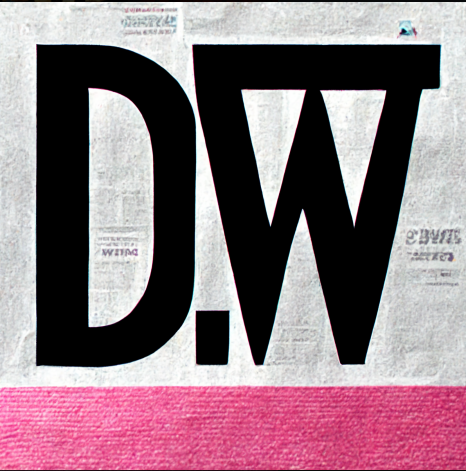
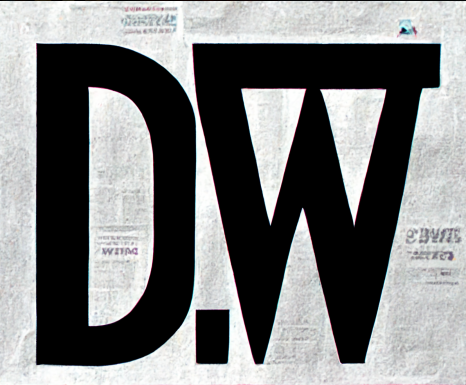
navbar position and body background

diff --git a/index.html b/index.html
@@ -13,13 +13,11 @@
 
 <body>
     <header>
-
-
         <div class="flexer topBar">
             <img id="logo" alt="image" src="./assets/image1.png">
             <nav>
                 <ul>
-                    <li><a href="#">Actualité</a></li>
+                    <li><a href="#">Actualités</a></li>
                     <li><a href="#">Programmes</a></li>
                     <li><a href="#">Contact</a></li>
                     <li><a href="#">A propos</a></li>
@@ -38,6 +36,14 @@
             <div class="flex-description">
                 <h2>Présentation DATA</h2>
                 <p>Le Daily Wilder est heureux de vous présenter les DATAS ANALYST. Grand spécialiste des maths...</p>
+                <p>La formation Data analyst est ouverte à toutes les personnes majeures sans pré-requis de diplôme.
+                    Il est recommandé de disposer de certains pré-requis techniques pour maximiser vos chances de nous
+                    rejoindre : être à l’aise avec les outils informatiques, les tableurs en particulier (feuilles de
+                    calcul comme Microsoft Excel ou Google Sheet), valider des connaissances de base en programmation,
+                    mathématiques et statistiques.<br>
+                    La maturité de votre projet professionnel et la motivation sont aussi deux éléments indispensables qui
+                    seront évalués lors de notre parcours de candidature : Inscription en ligne, Entretien de motivation et
+                    Entretien technique.</p>
             </div>
         </div>
         <div id="js">
@@ -45,8 +51,14 @@
             <div class="flex-description">
                 <h2>Présentation des JS</h2>
                 <p>Le Daily Wilder à l'honneur de vous présenter son fer de lance dans ce monde de brute, le bouclier à
-                    tous vos
-                    problèmes sauf ceux de réveil ! Le développeur Javascript , enfin... ce qui y ressemble.</p>
+                    tous vos problèmes sauf ceux de réveil ! Le développeur Javascript , enfin... ce qui y ressemble.</p>
+                <p>La formation est ouverte à toute personne majeure qui souhaite développer de nouvelles compétences,
+                    réaliser une reconversion professionnelle ou monter son propre projet. Nous ne demandons pas de diplôme
+                    ni de pré-requis (vous pouvez intégrer la formation Développeur front-end sans bac ou après un DUT
+                    ou BTS par exemple). Nous recherchons avant tout un état d'esprit caractérisé par l'envie de réussir,
+                    la curiosité, la créativité pour trouver des solutions et la capacité à travailler en équipe.
+                    Pour rejoindre notre formation, 3 étapes vous permettent de valider le parcours de candidature :
+                    Inscription en ligne, Entretien de motivation et Entretien technique.</p>
             </div>
         </div>
         <div id="php">
@@ -55,6 +67,10 @@
                 <h2>Présentation des PHP</h2>
                 <p>Notre journal a mené son enquête pour dénicher ses hommes de l'ombre , mi-batman mi-développeur.
                     Nous vous présentons : les développeurs back-end PHP.</p>
+                <p>La formation Développeur web est ouverte à tous les profils, sans condition de diplôme ni pré-requis.
+                    Nous recherchons avant tout un état d'esprit caractérisé par l'envie de réussir, la créativité, et
+                    la capacité à travailler en équipe. Pour rejoindre notre formation, 3 étapes vous permettent de valider
+                    le parcours de candidature: Inscription en ligne, Entretien de motivation et Entretien technique.</p>
             </div>
         </div>
     </section>

diff --git a/style.css b/style.css
@@ -46,7 +46,7 @@ nav a {
 nav ul {
     text-align: center;
     border: none;
-    background: rgb(234, 104, 171);
+    background: linear-gradient(200deg, #f65454, white);
     margin-bottom: 0px;
 
 }
@@ -121,7 +121,8 @@ h1 {
 .topBar {
     height: 12vh;
     margin-bottom: 2vh;
-    ;
+    position: fixed;
+    width: 100%;
     box-shadow: rgba(0, 0, 0, 0.24) 0px 3px 8px;
 }
 
@@ -291,4 +292,12 @@ footer ul li:hover {
 
 .wildInfos2 {
     background-image: url("assets/wildinfos2.png");
+}
+
+body{
+    background: linear-gradient(#f65454, white);
+}
+
+@media screen and (min-width: 1024px){
+
 }
